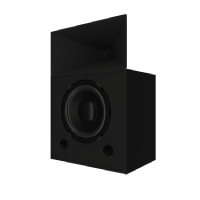
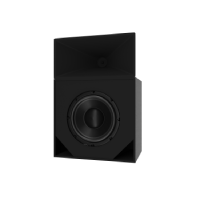
apdate photo fix "hoViz..."

Changed region(s): [[0.24, 0.06, 0.78, 0.87], [0.33, 0.45, 0.57, 0.72]]

diff --git a/css/style.css b/css/style.css
@@ -1346,7 +1346,7 @@ h2.off, p.off {
   width: 75%;
   margin: 0 auto;
 }
-.production_block.herizontal {
+.production_block.horizontal {
   justify-content: space-between;
   padding: 0;
 }
@@ -1428,31 +1428,31 @@ h2.off, p.off {
   border-radius: 15px;
   color: #fff;
 }
-.production_block.herizontal .product_menu {
+.production_block.horizontal .product_menu {
   max-width: none;
   width: 48% !important;
   text-align: left;
   margin: 0 0 25px;
 }
-.production_block.herizontal .product_menu .img__block {
+.production_block.horizontal .product_menu .img__block {
   height: 175px;
   width: 31%;
   padding: 5px;
   background-color: #fff;
   float: left;
 }
-.production_block.herizontal .product_menu .text__block {
+.production_block.horizontal .product_menu .text__block {
   float: right;
   width: 65%;
 }
-.production_block.herizontal .product_menu .text__block h2 {
+.production_block.horizontal .product_menu .text__block h2 {
   display: inline-block;
 }
-.production_block.herizontal .product_menu .text__block p {
+.production_block.horizontal .product_menu .text__block p {
   font-size: 1.2em;
   padding-right: 10px;
 }
-.production_block.herizontal .product_menu .text__block p span {
+.production_block.horizontal .product_menu .text__block p span {
   font-weight: bold;
 }
 .production_block.four__grid {
@@ -1728,47 +1728,59 @@ h2.off, p.off {
   padding: 5px 10px;
   font-size: 0.7em;
 }
-.product-block .product-block__similar-item .similar-item-block__product.production_block.production_block-hovizontal > .product_menu {
+.product-block .product-block__similar-item .similar-item-block__product.production_block.production_block-horizontal > .product_menu {
   width: 48% !important;
   margin: 1%;
   text-align: left;
 }
-.product-block .product-block__similar-item .similar-item-block__product.production_block.production_block-hovizontal > .product_menu img {
+.product-block .product-block__similar-item .similar-item-block__product.production_block.production_block-horizontal > .product_menu .img__block {
+  width: 31%;
+  padding: 0px;
+  background-color: #fff;
   float: left;
-  width: 45%;
-  padding-right: 5px;
 }
-.product-block .product-block__similar-item .similar-item-block__product.production_block.production_block-hovizontal > .product_menu h2 {
+.product-block .product-block__similar-item .similar-item-block__product.production_block.production_block-horizontal > .product_menu .text__block {
+  float: right;
+  width: 65%;
+}
+.product-block .product-block__similar-item .similar-item-block__product.production_block.production_block-horizontal > .product_menu .text__block h2 {
   float: left;
   font-size: 0.7em;
-  min-width: 53%;
+  min-width: 100%;
   padding: 0;
 }
-.product-block .product-block__similar-item .similar-item-block__product.production_block.production_block-hovizontal > .product_menu ul {
+.product-block .product-block__similar-item .similar-item-block__product.production_block.production_block-horizontal > .product_menu .text__block p {
+  font-size: 1.2em;
+  padding-right: 10px;
+}
+.product-block .product-block__similar-item .similar-item-block__product.production_block.production_block-horizontal > .product_menu .text__block p span {
+  font-weight: bold;
+}
+.product-block .product-block__similar-item .similar-item-block__product.production_block.production_block-horizontal > .product_menu ul {
   font-size: 0.6em;
   padding: 5px 0;
   border: none;
 }
-.product-block .product-block__similar-item .similar-item-block__product.production_block.production_block-hovizontal > .product_menu ul li {
+.product-block .product-block__similar-item .similar-item-block__product.production_block.production_block-horizontal > .product_menu ul li {
   line-height: 1em;
 }
-.product-block .product-block__similar-item .similar-item-block__product.production_block.production_block-hovizontal > .product_menu ul span {
+.product-block .product-block__similar-item .similar-item-block__product.production_block.production_block-horizontal > .product_menu ul span {
   font-weight: normal;
 }
-.product-block .product-block__similar-item .similar-item-block__product.production_block.production_block-hovizontal > .product_menu::after {
+.product-block .product-block__similar-item .similar-item-block__product.production_block.production_block-horizontal > .product_menu::after {
   transform: none;
   top: 32px;
   left: 1.5%;
 }
-.product-block .product-block__similar-item .similar-item-block__product.production_block.production_block-hovizontal > .product_menu::before {
+.product-block .product-block__similar-item .similar-item-block__product.production_block.production_block-horizontal > .product_menu::before {
   height: 100%;
   right: auto;
   width: 75px;
 }
-.product-block.herizontal .img-block__slider img {
+.product-block.horizontal .img-block__slider img {
   background: #fff;
 }
-.product-block.herizontal .product-block__img span {
+.product-block.horizontal .product-block__img span {
   font-weight: bold;
 }
 
@@ -2518,29 +2530,29 @@ h2.off, p.off {
   .production_block .product_menu h2 {
     font-size: 1em !important;
   }
-  .production_block.herizontal .production_title {
+  .production_block.horizontal .production_title {
     font-size: 12px;
     order: 100;
   }
-  .production_block.herizontal .product_menu {
+  .production_block.horizontal .product_menu {
     width: 100% !important;
     text-align: left;
     margin: 0 0 25px;
   }
-  .production_block.herizontal .product_menu img {
+  .production_block.horizontal .product_menu img {
     margin-right: 5px;
   }
-  .production_block.herizontal .product_menu h2 {
+  .production_block.horizontal .product_menu h2 {
     font-size: 1.1em;
   }
-  .production_block.herizontal .product_menu p {
+  .production_block.horizontal .product_menu p {
     font-size: 1em;
     padding: 0;
   }
-  .production_block.herizontal .product_menu .img__block {
+  .production_block.horizontal .product_menu .img__block {
     width: 47%;
   }
-  .production_block.herizontal .product_menu .text__block {
+  .production_block.horizontal .product_menu .text__block {
     width: 50%;
   }
   .production_block .main_menu {

diff --git a/css/style.scss b/css/style.scss
@@ -1125,7 +1125,7 @@ h2.off,p.off{display: none;}
       margin: 0 auto;
     }
   }
-  &.herizontal{
+  &.horizontal{
     justify-content: space-between;
     padding: 0;
   }
@@ -1205,7 +1205,7 @@ h2.off,p.off{display: none;}
       }
     }
   }
-  &.herizontal .product_menu{
+  &.horizontal .product_menu{
     max-width: none;
     width: 48% !important;
     text-align: left;
@@ -1231,7 +1231,7 @@ h2.off,p.off{display: none;}
         }
       }
     }
-    }
+  }
   &.four__grid{
     display: grid;
     grid-template-columns: repeat(4, 1fr);
@@ -1518,20 +1518,32 @@ h2.off,p.off{display: none;}
             }
           }
         }
-        &.production_block-hovizontal>.product_menu{
+        &.production_block-horizontal>.product_menu{
           width: 48% !important;
           margin: 1%;
           text-align: left;
-          img{
+          & .img__block{
+            width: 31%;
+            padding: 0px;
+            background-color: #fff;
             float: left;
-            width: 45%;
-            padding-right: 5px;
           }
-          h2{
-            float: left;
-            font-size: 0.7em;
-            min-width: 53%;
-            padding: 0;
+          & .text__block{
+            float: right;
+            width: 65%;
+            & h2{
+              float: left;
+              font-size: 0.7em;
+              min-width: 100%;
+              padding: 0;
+            }
+            & p{
+              font-size: 1.2em;
+              padding-right: 10px;
+              & span{
+                font-weight: bold;
+              }
+            }
           }
           ul{
             font-size: 0.6em;
@@ -1555,7 +1567,7 @@ h2.off,p.off{display: none;}
       }
     }
   }
-  &.herizontal{
+  &.horizontal{
     .img-block__slider img{background: #fff;}
     .product-block__img span{font-weight: bold;}
   }
@@ -2281,7 +2293,7 @@ h2.off,p.off{display: none;}
       }
       h2{font-size: 1em !important;}
     }
-    &.herizontal{
+    &.horizontal{
       & .production_title{
         font-size: 12px;
         order: 100;

diff --git a/html/productions/elevator.html b/html/productions/elevator.html
@@ -254,7 +254,7 @@
   </div>
   <div class="block_name">Подъемный механизм</div>
   <div class="container">
-    <div class="production_block herizontal" style="padding: 0;">
+    <div class="production_block horizontal" style="padding: 0;">
       <div class="production_title">
         <p>KINOPROKAT KINOLIFT <span>PRO</span> – это электроподъемное устройство для проекторов, разработанное специально для залов без проекционной комнаты и предназначенное для скрытой инсталляции проектора в потолок. Среди уникальных особенностей устройства: простота монтажа, автоматическое управление кнопками, возможность опустить платформу на любую заданную высоту, а также удобство в обслуживании</p>
         <p>KINOPROKAT KINOLIFT <span>PRO</span> выпускается в нескольких моделях, универсальные габариты которых подобраны под наиболее распространенные типы проекторов. Также возможна индивидуальная кастомизация. Все комплектующие подъёмного механизма сделаны из высококачественных материалов. Мы используем огнеупорное стекло с запатентованным антибликовым покрытием AMIRAN класса Е60 с пропускной способностью 97%. Система безопасности включает в себя ряд электрических и механических устройств</p>

diff --git a/html/productions/audio/ccs/CP-SUB1.html b/html/productions/audio/ccs/CP-SUB1.html
@@ -182,15 +182,15 @@
       <div class="product-block__img img-block">
         <div class="img-block__slider">
           <div class="slider__mini-photo">
-            <img src="../../../../img/v_1/cp_sub_1.png" alt="CP-SUB1 img">
-            <img src="../../../../img/v_1/cp_sub_1.png" alt="CP-SUB1 img">
-            <img src="../../../../img/v_1/cp_sub_1.png" alt="CP-SUB1 img">
+            <img src="../../../../img/production/ccs/CP_SUB-1.png" alt="CP-SUB1 img">
+            <img src="../../../../img/production/ccs/CP_SUB-1_2.png" alt="CP-SUB1 img">
+            <img src="../../../../img/production/ccs/CP_SUB-1_3.png" alt="CP-SUB1 img">
           </div>
           <div class="slider__main-photo slider__nav">
             <div class="slider__nav-left">
               <img src="../../../../img/production/arrow_left.png" alt="">
             </div>
-            <img src="../../../../img/v_1/cp_sub_1.png" alt="CP-SUB1 img">
+            <img src="../../../../img/production/ccs/CP_SUB-1.png" alt="CP-SUB1 img">
             <div class="slider__nav-right">
               <img src="../../../../img/production/arrow_right.png" alt="">
             </div>
@@ -273,7 +273,7 @@
       </div>
       <div class="product-block__similar-item similar-item-block">
         <div class="similar-item-block__title">Похожие товары</div>
-        <div class="similar-item-block__product production_block production_block-hovizontal">
+        <div class="similar-item-block__product production_block production_block-horizontal">
           <a class="product_menu" href="CP-SUB2.html">
             <div class="img__block">
               <img src="../../../../img/production/ccs/CP_SUB-2.png" alt="KINOPROKAT CP-SUB2 image">

diff --git a/html/productions/audio/ccs.html b/html/productions/audio/ccs.html
@@ -252,7 +252,7 @@
   </div>
   <div class="block_name">Акустические системы</div>
   <div class="container">
-    <div class="production_block herizontal">
+    <div class="production_block horizontal">
       <div class="production_title">
         <p>Мы с гордостью представляем линию наших звуковых систем для кинотеатров, изготовленных в соответствии с требованиями современного аудио-рынка. В премиум-линии мы используем динамики компании Eighteen Sound - ведущего разработчика и производителя высококачественных профессиональных динамиков, изготовленных в Италии.<br>
         Вся акустическая система версии СР выполнена из березовой фанеры толщиной 18 мм, что обеспечивает максимальную звуковую отдачу и целостность конструкции на протяжении всего срока эксплуатации.<br>
@@ -304,7 +304,7 @@
       </a>
       <a class="product_menu" href="ccs/CP-SUB1.html">
         <div class="img__block">
-          <img src="../../../img/v_1/cp_sub_1.png" alt="KINOPROKAT CP-SUB1 image">
+          <img src="../../../img/production/ccs/CP_SUB-1.png" alt="KINOPROKAT CP-SUB1 image">
         </div>
         <div class="text__block">
         <h2>KINOPROKAT CP-SUB1</h2>

diff --git a/html/productions/elevator/АМ-010.html b/html/productions/elevator/АМ-010.html
@@ -288,14 +288,18 @@
       </div>
       <div class="product-block__similar-item similar-item-block">
         <div class="similar-item-block__title">Похожие товары</div>
-        <div class="similar-item-block__product production_block production_block-hovizontal">
+        <div class="similar-item-block__product production_block production_block-horizontal">
           <a class="product_menu" href="#">
             <div class="img__block">
               <img src="../../../img/production/elevator/empty.jpg" alt="3d-polar image">
             </div>
             <div class="text__block">
               <h2>АМ-020</h2>
-              <p>Подъемный механизм</p>
+              <ul class="main-advantages">
+                <li>&nbsp;</li>
+                <li>&nbsp;</li>
+                <li>&nbsp;</li>
+              </ul>
             </div>
           </a>
           <a class="product_menu" href="#">
@@ -304,7 +308,11 @@
             </div>
             <div class="text__block">
               <h2>АМ-050</h2>
-              <p>Подъемный механизм</p>
+              <ul class="main-advantages">
+                <li>&nbsp;</li>
+                <li>&nbsp;</li>
+                <li>&nbsp;</li>
+              </ul>
             </div>
           </a>
         </div>

diff --git a/html/productions/audio/ccs/CP-SUB2.html b/html/productions/audio/ccs/CP-SUB2.html
@@ -273,10 +273,10 @@
       </div>
       <div class="product-block__similar-item similar-item-block">
         <div class="similar-item-block__title">Похожие товары</div>
-        <div class="similar-item-block__product production_block production_block-hovizontal">
+        <div class="similar-item-block__product production_block production_block-horizontal">
           <a class="product_menu" href="CP-SUB1.html">
             <div class="img__block">
-              <img src="../../../../img/v_1/cp_sub_1.png" alt="KINOPROKAT CP-SUB1 image">
+              <img src="../../../../img/production/ccs/CP_SUB-1.png" alt="KINOPROKAT CP-SUB1 image">
             </div>
             <div class="text__block">
             <h2>KINOPROKAT CP-SUB1</h2>

diff --git a/html/productions/3d-sistem.html b/html/productions/3d-sistem.html
@@ -252,7 +252,7 @@
   </div>
   <div class="block_name">3D система</div>
   <div class="container">
-    <div class="production_block herizontal">
+    <div class="production_block horizontal">
       <div class="production_title">
         <p><span>KINOPROKAT 3D-POLAR</span> - это современная система для демонстрации 3D-фильмов, которая совместима со всеми DCI проекторами. Она предназначена для демонстрации 3D-изображения на металлизированном экране шириной до 20 метров.</p>
       </div>

diff --git a/html/productions/audio/ccs/C-SUR8.html b/html/productions/audio/ccs/C-SUR8.html
@@ -295,7 +295,7 @@
       </div>
       <div class="product-block__similar-item similar-item-block">
         <div class="similar-item-block__title">Похожие товары</div>
-        <div class="similar-item-block__product production_block production_block-hovizontal">
+        <div class="similar-item-block__product production_block production_block-horizontal">
           <a class="product_menu" href="C-SUR10.html">
             <div class="img__block">
               <img src="../../../../img/production/ccs/C-SUR10.png" alt="KINOPROKAT C-SUR10 image">

diff --git a/html/productions/audio/ccs/C-SUR10.html b/html/productions/audio/ccs/C-SUR10.html
@@ -288,7 +288,7 @@
       </div>
       <div class="product-block__similar-item similar-item-block">
         <div class="similar-item-block__title">Похожие товары</div>
-        <div class="similar-item-block__product production_block production_block-hovizontal">
+        <div class="similar-item-block__product production_block production_block-horizontal">
           <a class="product_menu" href="C-SUR8.html">
             <div class="img__block">
               <img src="../../../../img/production/ccs/C-SUR10.png" alt="KINOPROKAT C-SUR8 image">

diff --git a/html/productions/audio/ccs/CP-F1.html b/html/productions/audio/ccs/CP-F1.html
@@ -302,7 +302,7 @@
       </div>
       <div class="product-block__similar-item similar-item-block">
         <div class="similar-item-block__title">Похожие товары</div>
-        <div class="similar-item-block__product production_block production_block-hovizontal">
+        <div class="similar-item-block__product production_block production_block-horizontal">
           <a class="product_menu" href="CP-F2.html">
             <div class="img__block">
               <img src="../../../../img/production/ccs/CP-F2.png" alt="KINOPROKAT CP-F2 image">

diff --git a/html/productions/audio/ccs/CP-F2.html b/html/productions/audio/ccs/CP-F2.html
@@ -302,7 +302,7 @@
       </div>
       <div class="product-block__similar-item similar-item-block">
         <div class="similar-item-block__title">Похожие товары</div>
-        <div class="similar-item-block__product production_block production_block-hovizontal">
+        <div class="similar-item-block__product production_block production_block-horizontal">
           <a class="product_menu" href="CP-F1.html">
             <div class="img__block">
               <img src="../../../../img/production/ccs/CP-F1.png" alt="KINOPROKAT CP-F1 image">
